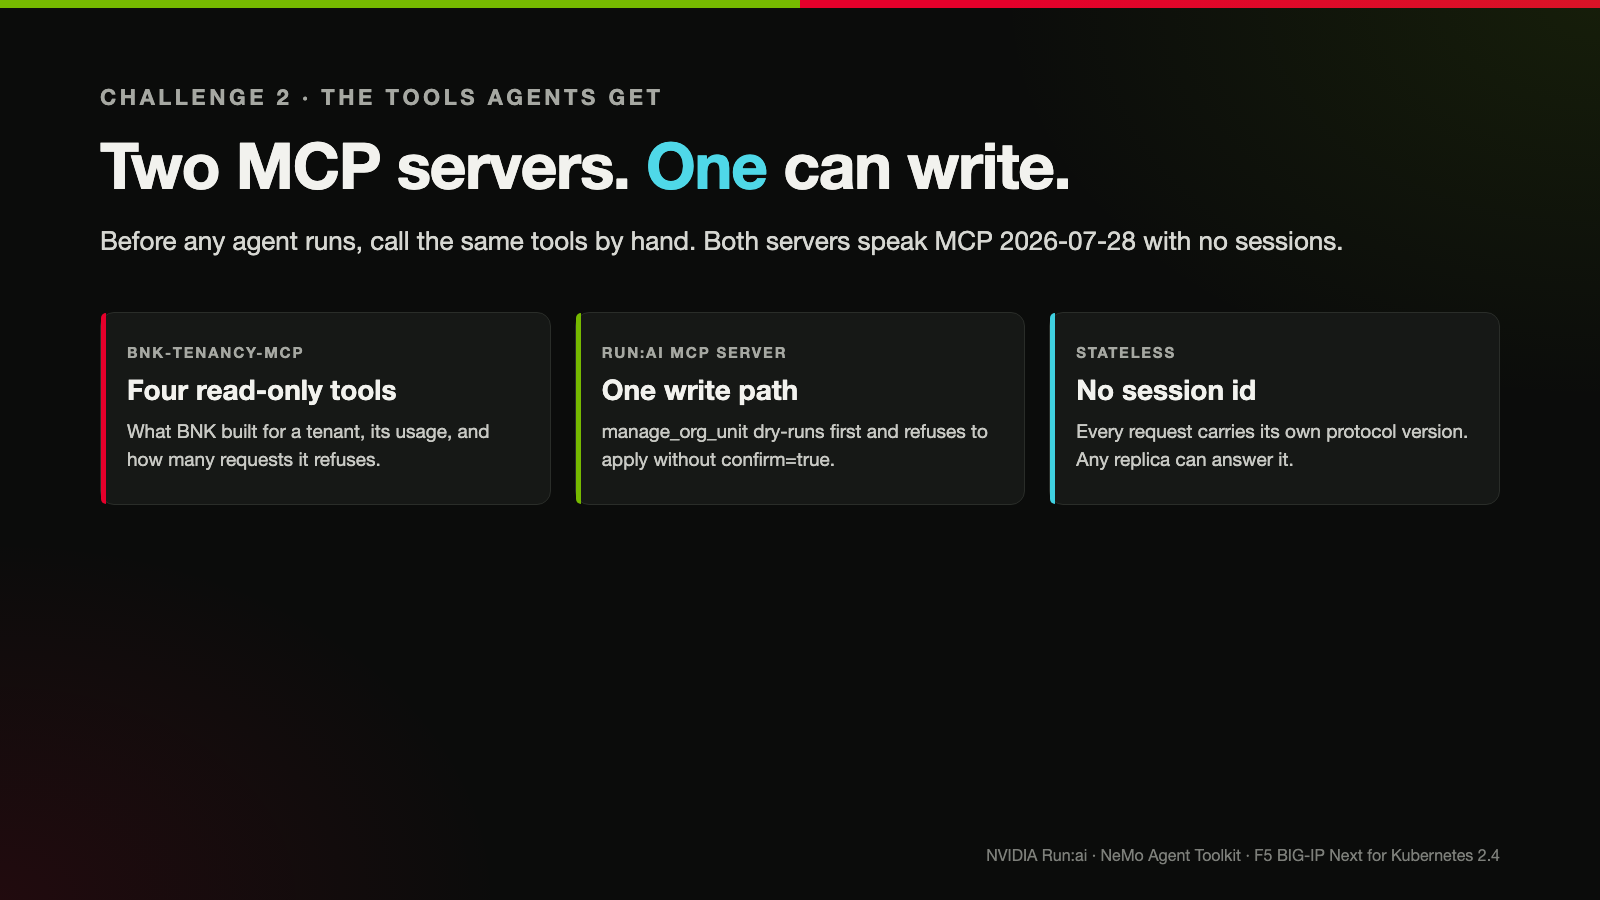
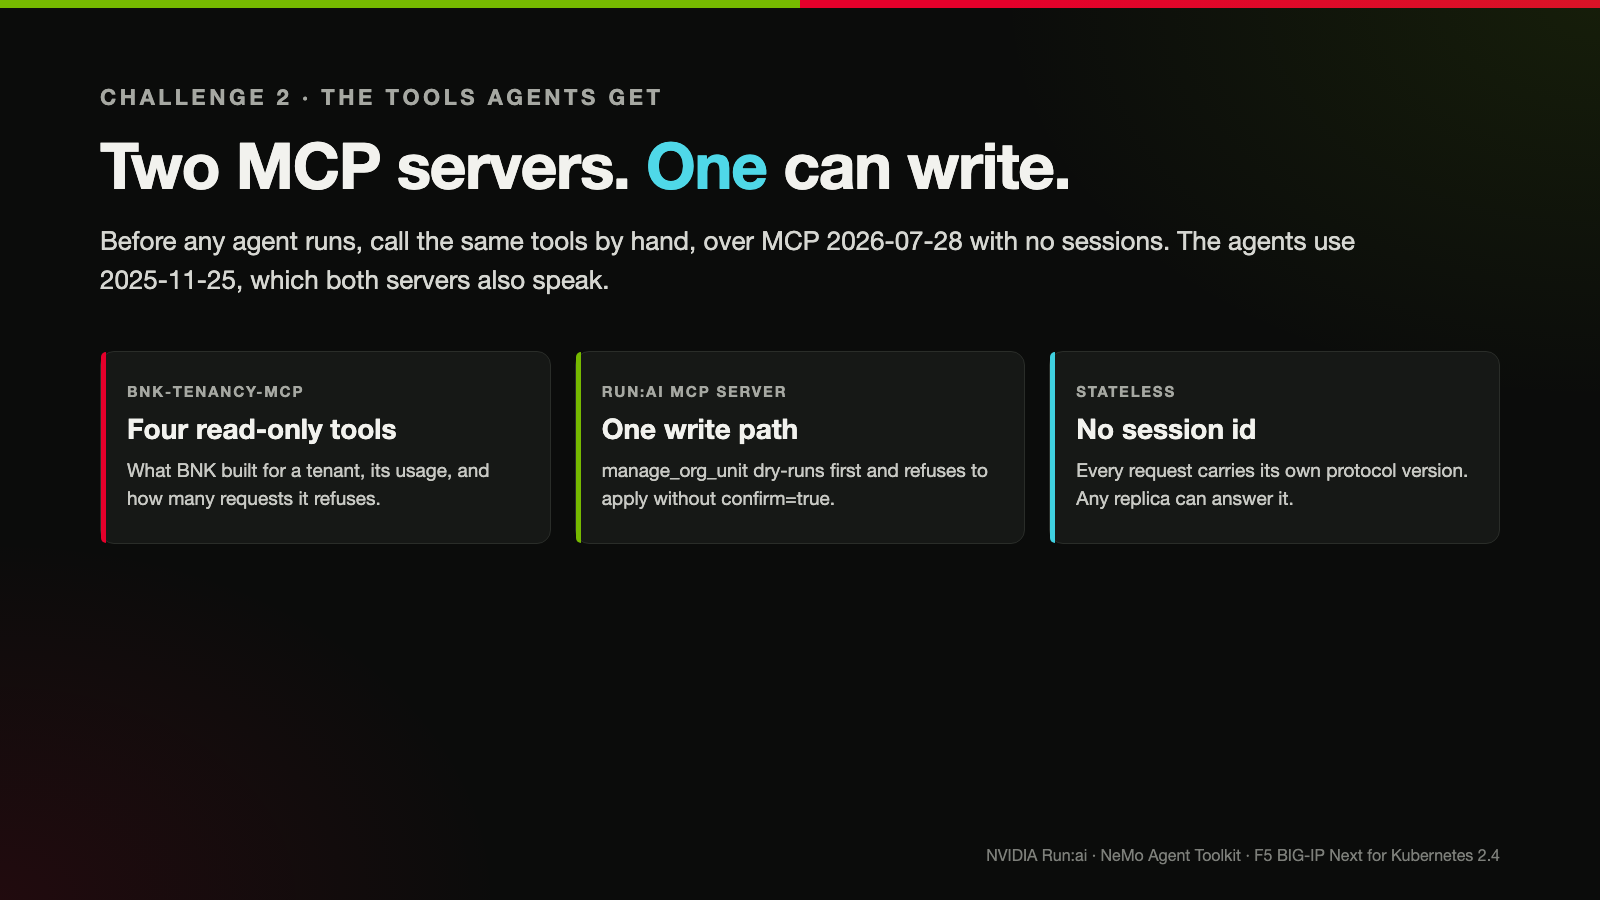
Agents: quieter run, 0.5 GPU steps enforced in code; challenge 4 shows how to read the trace and proof from Run:ai and BNK; MCP version claims corrected

diff --git a/platform/topology/topology.html b/platform/topology/topology.html
@@ -454,7 +454,7 @@ const INFO = {
   "n-a": "<b>tenant-a models.</b> vLLM simulators with real vLLM metrics, two replicas at half a GPU each, so the Endpoint Picker has a choice.",
   "n-b": "<b>tenant-b model.</b> One vLLM simulator at half a GPU, the same GPU as one of tenant-a's.",
   "n-ai": "<b>Agent team.</b> Three agents built with NVIDIA NeMo Agent Toolkit on NVIDIA Nemotron. The <b>monitor</b> holds the read-only BNK tools, the <b>operator</b> holds <code>approved_quota_change</code>, the <b>lead</b> holds the other two. Only the operator can change anything, and only after you type <code>yes</code>. Config: <code>agents/configs/factory-ops.yml</code>.",
-  "n-mcp": "<b>MCP servers, spec 2026-07-28, no sessions.</b> NVIDIA's <code>runai-mcp-server</code>, built from NVIDIA's source with one change so it runs stateless. Its write tool dry-runs first and needs <code>confirm</code>. And <code>bnk-tenancy-mcp</code> from this repo: four read-only tools for what BNK built, its usage and its 429s.",
+  "n-mcp": "<b>MCP servers, spec 2026-07-28 with no sessions, and 2025-11-25.</b> <code>labctl mcp</code> uses the newer version, the agents' NeMo Agent Toolkit client the older one. NVIDIA's <code>runai-mcp-server</code>, built from NVIDIA's source with one change so it runs stateless. Its write tool dry-runs first and needs <code>confirm</code>. And <code>bnk-tenancy-mcp</code> from this repo: four read-only tools for what BNK built, its usage and its 429s.",
   "n-dfront": "<b>BNK Endpoint Picker, Dynamo mode.</b> Runs in the Dynamo project's namespace like any tenant's picker. F5EPP with <code>engine: dynamo</code> and <code>natsURL</code>, as documented for BNK 2.4. It names the chosen Dynamo worker in the request.",
   "n-dwork": "<b>Dynamo Mocker workers.</b> Dynamo's own GPU-free engine, publishing real KV-cache events. Each pod has a Dynamo frontend in direct mode that serves the worker BNK picked. Half a GPU each from Run:ai.",
   "n-dinfra": "<b>Dynamo operator + NATS.</b> NVIDIA's dynamo-platform chart. The operator runs the frontend and Mocker workers. NATS carries their KV-cache events to BNK's Endpoint Picker. This NATS has no auth, which is safe here only because one tenant runs Dynamo.",

diff --git a/instruqt/bnk-agents/assets/src/notes-02.html b/instruqt/bnk-agents/assets/src/notes-02.html
@@ -15,5 +15,5 @@ p.l{font-size:26px;line-height:1.5;color:#d6d7d2;margin:0;max-width:1300px}
 .x{font-size:19px;line-height:1.5;color:#c8c9c4}
 .ft{position:absolute;right:100px;bottom:36px;font-size:16px;color:#7d7f7a}
 </style></head><body><div class="bar"></div><div class="glow"></div><div class="wrap">
-<div class="eb">Challenge 2 · The tools agents get</div><h1>Two MCP servers. <c>One</c> can write.</h1><p class="l">Before any agent runs, call the same tools by hand. Both servers speak MCP 2026-07-28 with no sessions.</p><div class="cards"><div class="card" style="--a:#e4002b"><div class="k">bnk-tenancy-mcp</div><div class="t">Four read-only tools</div><div class="x">What BNK built for a tenant, its usage, and how many requests it refuses.</div></div><div class="card" style="--a:#76b900"><div class="k">Run:ai MCP server</div><div class="t">One write path</div><div class="x">manage_org_unit dry-runs first and refuses to apply without confirm=true.</div></div><div class="card" style="--a:#3fd0e0"><div class="k">Stateless</div><div class="t">No session id</div><div class="x">Every request carries its own protocol version. Any replica can answer it.</div></div></div></div>
+<div class="eb">Challenge 2 · The tools agents get</div><h1>Two MCP servers. <c>One</c> can write.</h1><p class="l">Before any agent runs, call the same tools by hand, over MCP 2026-07-28 with no sessions. The agents use 2025-11-25, which both servers also speak.</p><div class="cards"><div class="card" style="--a:#e4002b"><div class="k">bnk-tenancy-mcp</div><div class="t">Four read-only tools</div><div class="x">What BNK built for a tenant, its usage, and how many requests it refuses.</div></div><div class="card" style="--a:#76b900"><div class="k">Run:ai MCP server</div><div class="t">One write path</div><div class="x">manage_org_unit dry-runs first and refuses to apply without confirm=true.</div></div><div class="card" style="--a:#3fd0e0"><div class="k">Stateless</div><div class="t">No session id</div><div class="x">Every request carries its own protocol version. Any replica can answer it.</div></div></div></div>
 <div class="ft">NVIDIA Run:ai · NeMo Agent Toolkit · F5 BIG-IP Next for Kubernetes 2.4</div></body></html>

diff --git a/agents/src/bnk_agents/approved_quota_change.py b/agents/src/bnk_agents/approved_quota_change.py
@@ -23,6 +23,7 @@ class ApprovedQuotaChangeConfig(FunctionBaseConfig, name="approved_quota_change"
     node_pool: str = Field(default="default", description="Node pool whose GPU quota is changed")
     rps_per_gpu: float = Field(default=20.0, description="BNK requests/s per deserved GPU (tenancy controller policy)")
     max_gpu: float = Field(default=4.0, description="Largest GPU quota the agents may propose")
+    gpu_step: float = Field(default=0.5, description="GPU quota must be a whole number of these steps")
 
 
 def _gpu(snapshot: dict, pool: str) -> float:
@@ -49,6 +50,9 @@ async def approved_quota_change(config: ApprovedQuotaChangeConfig, builder: Buil
             return f"Refused: the agents may only change {', '.join(config.projects)}, not {project}."
         if not 0 < gpu_deserved <= config.max_gpu:
             return f"Refused: GPU quota must be above 0 and at most {config.max_gpu:g}, got {gpu_deserved:g}."
+        if abs(gpu_deserved / config.gpu_step - round(gpu_deserved / config.gpu_step)) > 1e-9:
+            return (f"Refused: GPU quota must be in steps of {config.gpu_step:g} GPU, got {gpu_deserved:g}. "
+                    f"Propose the next step up that covers the traffic.")
 
         args = {"action": "update", "orgType": "project", "name": project,
                 "spec": {"quota": [{"nodePoolName": config.node_pool, "gpuDeserved": gpu_deserved}]}}

diff --git a/agents/src/bnk_agents/quiet_nat.py b/agents/src/bnk_agents/quiet_nat.py
@@ -1,0 +1,35 @@
+"""Runs the NeMo Agent Toolkit CLI with the startup noise turned down, so the agent trace stands out.
+
+NAT logs one line per MCP tool it registers. Run:ai's server offers about 40, and the agents can only
+call the ones `include:` lists in the config, so those lines read as access the agents don't have. The
+agents' own trace ([AGENT] blocks, tool calls, the approval prompt) is untouched.
+"""
+import logging
+import sys
+
+# Loggers whose INFO lines are setup detail, not agent behaviour.
+QUIET = (
+    "nat.plugins.mcp.client.client_impl",
+    "nat.plugins.mcp.client.client_base",
+    "nat.builder.function_info",
+    "nat.cli.commands.start",
+    "nat.runtime.session",
+    "mcp.client.streamable_http",
+    "httpx",
+)
+
+
+class _Floor(logging.Filter):
+    def filter(self, record: logging.LogRecord) -> bool:
+        return record.levelno >= logging.WARNING and record.name != "nat.builder.function_info"
+
+
+def main() -> int:
+    for name in QUIET:
+        logging.getLogger(name).addFilter(_Floor())
+    from nat.cli.main import run_cli
+    return run_cli()
+
+
+if __name__ == "__main__":
+    sys.exit(main())

diff --git a/instruqt/bnk-agents/assets/src/notes.py b/instruqt/bnk-agents/assets/src/notes.py
@@ -21,7 +21,7 @@ SLIDES = {
          (B, "Simulated", "The BlueField DPU", "A separate node with a tunnel. The request path is real, DPU offload isn't measured.")]),
     "notes-02": ("Challenge 2 · The tools agents get",
         'Two MCP servers. <c>One</c> can write.',
-        "Before any agent runs, call the same tools by hand. Both servers speak MCP 2026-07-28 with no sessions.",
+        "Before any agent runs, call the same tools by hand, over MCP 2026-07-28 with no sessions. The agents use 2025-11-25, which both servers also speak.",
         [(R, "bnk-tenancy-mcp", "Four read-only tools", "What BNK built for a tenant, its usage, and how many requests it refuses."),
          (G, "Run:ai MCP server", "One write path", "manage_org_unit dry-runs first and refuses to apply without confirm=true."),
          (C, "Stateless", "No session id", "Every request carries its own protocol version. Any replica can answer it.")]),

diff --git a/instruqt/bnk-agents/04-the-agent-team/assignment.md b/instruqt/bnk-agents/04-the-agent-team/assignment.md
@@ -61,15 +61,32 @@ tenant-b's load should still be running in **Terminal 2**. If it stopped, start 
 minute before asking the agents, so the one-minute averages they read show the 429s:
 `labctl load overload --tenant tenant-b --rps 35 --seconds 900`
 
+## How to read what scrolls past
+
+Each agent works in a loop. Three kinds of line matter:
+
+| Line | Who wrote it | What it is |
+|---|---|---|
+| `Thought:` | Nemotron | The model's reasoning. It can be worded differently each run. |
+| `Action:` and `Action Input:` | Nemotron | The tool the model chose and the arguments it picked. |
+| `Tool's response:` | The MCP server | The real answer from BNK or Run:ai. This is data, not the model talking. |
+
+So the numbers in `Tool's response:` come from BNK itself, and everything the agents conclude has to be
+built on them.
+
+## Ask the team
+
 In **Terminal**:
 
 ```bash
 labctl agents
 ```
 
-Watch the agents work. You should see the lead ask the monitor, the monitor call `list_tenants` and
-`get_tenant_rejections`, then the lead work out the quota: 35 req/s needs at least 35, so 2 GPU (40 req/s)
-in steps of 0.5. The operator calls `approved_quota_change`, and the run stops at a prompt like this:
+Watch the agents work. You should see the lead hand a question to the monitor, the monitor call
+`list_tenants` and `get_tenant_rejections`, and a `Tool's response:` for tenant-b with `"throttled":true`,
+`"offeredRps"` near 35 and `"rateLimitRps":10`. Then the lead works out the quota. 20 req/s per GPU, so
+35 req/s needs 1.75 GPU, which rounds up to 2 GPU (40 req/s) in steps of 0.5. The operator calls
+`approved_quota_change`, and the run stops at a prompt like this:
 
 ```
 Run:ai dry run for project tenant-b: GPU quota 0.5 -> 2 (BNK limit 10 -> 40 req/s). Approve this change? Type yes or no.
@@ -77,14 +94,31 @@ Run:ai dry run for project tenant-b: GPU quota 0.5 -> 2 (BNK limit 10 -> 40 req/
 
 **Type `no`.**
 
-You should see the operator report the decline, and the lead stop without asking again. The model can
-word its reasoning differently from run to run. The prompt and its numbers come from Run:ai's own dry run,
-so they don't change.
+You should see the tool answer `Declined by the operator. Project tenant-b stays at 0.5 GPU. Do not
+retry.`, and the lead stop and report it without asking again.
 
-Check that nothing moved:
+The prompt isn't written by the model. `approved_quota_change` asked Run:ai's MCP server for a dry run, and
+the `0.5 -> 2` in the prompt is Run:ai's own diff. The BNK limit next to it is that quota times 20.
+
+## Proof from the systems, not from the agents
+
+The agents say nothing changed. Check that with the systems themselves.
+
+Run:ai's API, read through the same MCP tool the operator uses, with a dry run that changes nothing.
+Then Run:ai's copy on the cluster, which is what the BNK controller watches. Then BNK:
 
 ```bash,run
-labctl tenant show tenant-b | grep -iE 'gpu deserved|rate limit'
+labctl mcp runai call manage_org_unit '{"action":"update","orgType":"project","name":"tenant-b","spec":{"quota":[{"nodePoolName":"default","gpuDeserved":0.5}]},"dryRun":true}' 2>/dev/null \
+  | jq -r '"Run:ai API      tenant-b quota: \(.before.quota[0].gpuDeserved) GPU"'
+kubectl get projects.kai.resources tenant-b -o jsonpath='Run:ai cluster  tenant-b quota: {.spec.queues[0].resources.gpu.deserved} GPU{"\n"}'
+labctl tenant show tenant-b | grep -i 'rate limit'
 ```
 
-Still 0.5 GPU and 10 req/s, and in **Grafana** tenant-b's 429s carry on.
+You should see 0.5 GPU in Run:ai's API, 0.5 GPU on the cluster, and 10 req/s at BNK. In **Grafana**,
+tenant-b's 429s carry on.
+
+## Replay the run
+
+Open the **Topology** tab and scroll to **Last agent run**. It replays the run you just did from its log:
+each tool call with its arguments, the question you were asked and your `no`. Every `labctl agents` run
+replaces it.

diff --git a/instruqt/bnk-agents/10-debrief/assignment.md b/instruqt/bnk-agents/10-debrief/assignment.md
@@ -55,7 +55,7 @@ going 0.5 → 2 → 0.5.
 |---|---|---|
 | GPU quota per tenant | NVIDIA Run:ai (open source) | Held each tenant's share, applied the change you approved |
 | The agents | NVIDIA NeMo Agent Toolkit, NVIDIA Nemotron | Read BNK, reasoned about quota, proposed one change at a time |
-| Agent tools | MCP 2026-07-28, stateless, on both servers | Run:ai's own MCP server and F5's BNK tenancy server |
+| Agent tools | MCP on both servers: 2026-07-28 stateless, and 2025-11-25 for the agents | Run:ai's own MCP server and F5's BNK tenancy server |
 | The edge | F5 BIG-IP Next for Kubernetes 2.4 | Front door per tenant, limits from quota, 429s before a GPU is touched, Dynamo worker picking |
 | The glue | A small open-source controller | Watches Run:ai, writes BNK |
 | The approval | You | Nothing changed without your `yes` |

diff --git a/instruqt/bnk-agents/02-the-tools-agents-get/assignment.md b/instruqt/bnk-agents/02-the-tools-agents-get/assignment.md
@@ -47,7 +47,9 @@ two MCP servers, and before you hand them to an agent, call them yourself.
 | `runai` | NVIDIA, from Run:ai's source | Read and change Run:ai: projects, quotas, workloads. |
 
 Both speak the newest MCP version, 2026-07-28, which has no sessions. Every request stands on its own, so
-there's no login handshake first and nothing for a load balancer to keep sticky.
+there's no login handshake first and nothing for a load balancer to keep sticky. `labctl mcp` uses that
+version. They also speak the previous one, 2025-11-25, which is what NeMo Agent Toolkit's MCP client uses
+today, so the agents in challenge 4 connect with that.
 
 ## The BNK side
 
